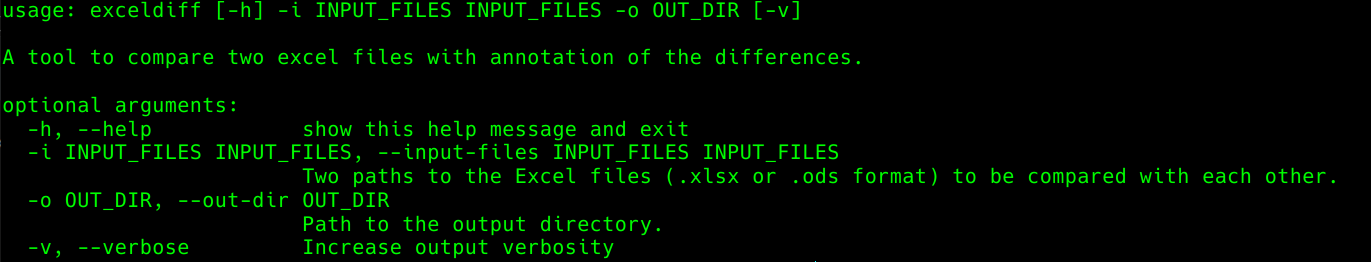
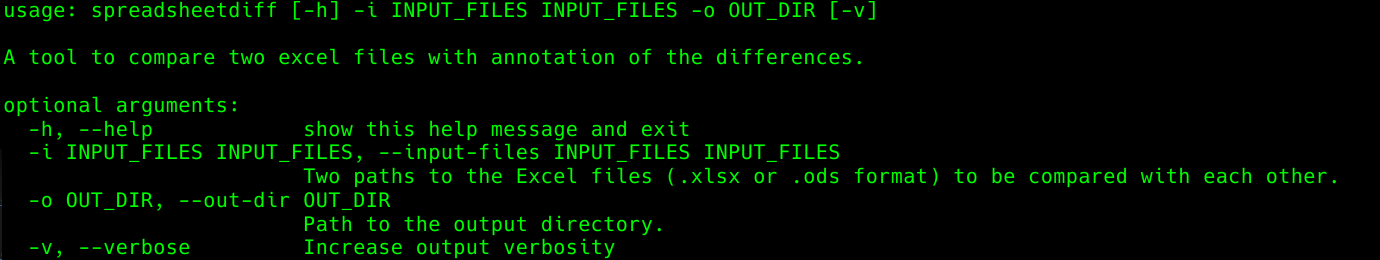
refactoring

diff --git a/spreadsheetdiff/main.py b/spreadsheetdiff/main.py
@@ -2,8 +2,8 @@ import logging
 import os
 import pandas as pd
 import numpy as np
-from exceldiff import command_line_options
-from exceldiff import log_handler
+from spreadsheetdiff import command_line_options
+from spreadsheetdiff import log_handler
 
 logger = log_handler.init_logger()
 
@@ -42,7 +42,7 @@ def compare_sheets(exl_1, exl_2, sheet, diff_writer, diff_annot):
 
 def compare_excel_files(excel_1, excel_2, out_dir):
     """Compares two input files in .xlsx or .ods format"""
-    logger.info('Starting ExcelDiff analysis...')
+    logger.info('Starting SpreadSheetDiff analysis...')
     diff_annot = f'COMPARISON OF\n\t{excel_1}\n\tWITH\n\t{excel_2}' \
                  f'\n\nDifferences:\n'
     exl_1 = pd.read_excel(excel_1, sheet_name=None)
@@ -50,7 +50,7 @@ def compare_excel_files(excel_1, excel_2, out_dir):
     out_path = f'{out_dir}/'
     if exl_1.keys() == exl_2.keys():
         sheets = list(exl_1.keys())
-        res_exl_file = f'{out_path}ExcelDiff_{os.path.basename(excel_1)}_vs' \
+        res_exl_file = f'{out_path}SpreadSheetDiff{os.path.basename(excel_1)}_vs' \
                        f'_{os.path.basename(excel_2)}.xlsx'
         with pd.ExcelWriter(res_exl_file) as diff_writer:
             for idx in range(len(sheets)):
@@ -66,11 +66,11 @@ def compare_excel_files(excel_1, excel_2, out_dir):
                       f'number of sheets or have different sheet names. ' \
                       f'An analysis for differences in their sheets is ' \
                       f'therefore not possible. {solution_msg}'
-    annot_file = 'ExcelDiff_annotations.txt'
+    annot_file = 'SpreadSheetDiff_annotations.txt'
     with open(out_path + annot_file, 'w') as f:
         f.write(diff_annot)
 
-    logger.info('ExcelDiff analysis finished!')
+    logger.info('SpreadSheetDiff analysis finished!')
 
 
 def main():

diff --git a/setup.py b/setup.py
@@ -16,14 +16,14 @@ def read(fname):
 
 
 setup(
-    name='ExcelDiff',
+    name='SpreadSheetDiff',
     version='0.1.0',
     author='Antonie Vietor',
     author_email='a.vietor@gmx.net',
     description='A tool to compare two excel files with annotation of the differences.',
-    url='https://github.com/AntonieV/ExcelDiff',
+    url='https://github.com/AntonieV/SpreadSheetDiff',
     license='GPLv3',
-    packages=['exceldiff'],
+    packages=['spreadsheetdiff'],
     python_requires='>3.6',
     install_requires=REQUIREMENTS,
     long_description=read('README.md'),
@@ -34,6 +34,6 @@ setup(
         'License :: OSI Approved :: MIT License'
     ],
     entry_points={
-        'console_scripts': ['exceldiff=exceldiff.main:main'],
+        'console_scripts': ['spreadsheetdiff=spreadsheetdiff.main:main'],
     },
 )

diff --git a/spreadsheetdiff/__init__.py b/spreadsheetdiff/__init__.py
@@ -1,0 +1,9 @@
+"""
+spreadsheetdiff
+
+A tool to compare two Excel or OpenOffice files (.xlsx or .ods) with
+annotation of the differences.
+"""
+
+__version__ = "0.1.0"
+__author__ = 'Antonie Vietor'

diff --git a/README.md b/README.md
@@ -1,4 +1,4 @@
-# ExcelDiff
+# SpreadSheetDiff
 
 A tool to compare two excel files with annotation of the differences. The files 
 to be compared must have the same basic structure. That means the labels and the 
@@ -30,7 +30,7 @@ sudo apt install wget
 
 For .tar.gz format execute the following command in terminal:
 ````
-wget https://github.com/AntonieV/ExcelDiff/archive/refs/tags/latest.tar.gz -O - | tar -xz
+wget https://github.com/AntonieV/SpreadSheetDiff/archive/refs/tags/latest.tar.gz -O - | tar -xz
 ````
 
 ### Alternatively: download and extract repository in .zip format: 
@@ -48,14 +48,14 @@ sudo apt install wget
 
 For .zip format execute the following command in terminal:
 ````
-wget https://github.com/AntonieV/ExcelDiff/archive/refs/tags/latest.zip
+wget https://github.com/AntonieV/SpreadSheetDiff/archive/refs/tags/latest.zip
 unzip latest.zip
 rm latest.zip
 ````
 
 ### Installation:
 ````
-cd ExcelDiff
+cd SpreadSheetDiff
 pip3 install .
 ````
 
@@ -71,37 +71,37 @@ The differences are stored in the cells of an .xlsx results file. A difference
 is marked in corresponding cell with `>>>` annotation between the different 
 values: `[value of first input file] >>> [value of second input file]`
 
-![image info](./assets/Screenshot_ExcelDiff.png)
+![image info](./assets/Screenshot_SpreadSheetDiff.png)
 
 
 In addition, they are stored with the corresponding cell localization 
-(sheet name, row and column) in a ExcelDiff_annotations file in 
+(sheet name, row and column) in a SpreadSheetDiff_annotations file in 
 .txt format:
 
-![image info](./assets/Screenshot_ExcelDiff_annot.png)
+![image info](./assets/Screenshot_SpreadSheetDiff_annot.png)
 
 ### Help:
 
 ````
-exceldiff -h
+spreadsheetdiff -h
 ````
 ![image info](./assets/Screenshot_help.png)
 
 ### Example package execution:
 ````
-exceldiff -v -i ../file_1.ods ../file_2.ods -o ../diff
+spreadsheetdiff -v -i ../file_1.ods ../file_2.ods -o ../diff
 ````
-![image info](./assets/Screenshot_ExcelDiff_stdout.png)
+![image info](./assets/Screenshot_SpreadSheetDiff_stdout.png)
 
 ### Example for local execution of the main method:
 
 ````
-python3 exceldiff/main.py -v -i ../file_1.xlsx ../file_2.ods -o ../diff
+python3 spreadsheetdiff/main.py -v -i ../file_1.xlsx ../file_2.ods -o ../diff
 ````
 
 ## Uninstall package:
 ````
-pip3 uninstall exceldiff
+pip3 uninstall spreadsheetdiff
 ````
 
 

diff --git a/CHANGELOG.md b/CHANGELOG.md
@@ -1,1 +1,1 @@
-31-07-2022 ExcelDiff version 0.1.0 released
+31-07-2022 SpreadSheetDiff version 0.1.0 released
